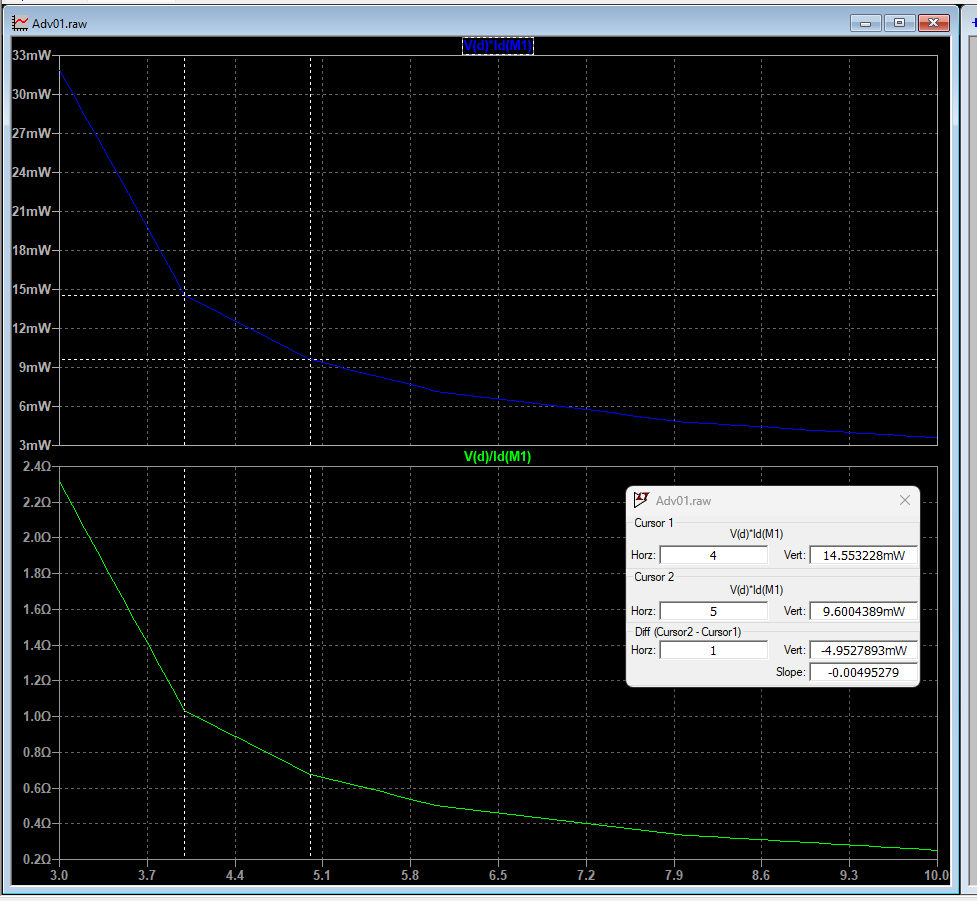
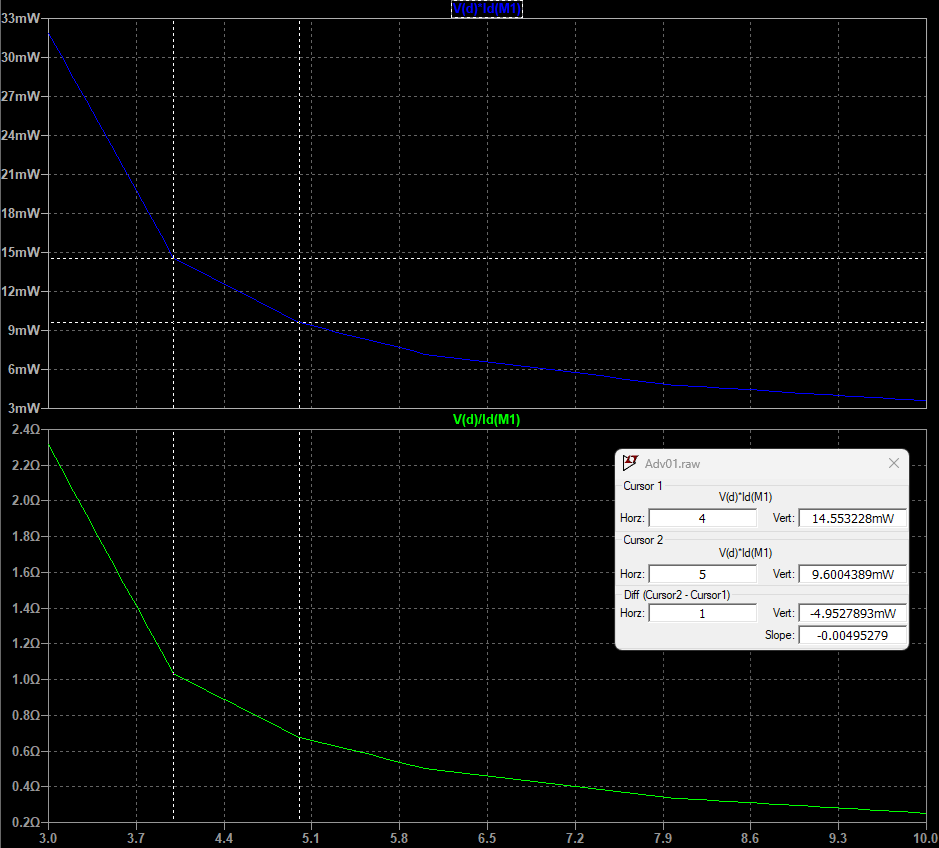
feat(lab5): add 2 advanced exercise

diff --git a/Report/labs/lab5/adv02.tex b/Report/labs/lab5/adv02.tex
@@ -32,8 +32,8 @@ $E_{\mathrm{off}}$ and the average MOSFET power for $R_G$ = 10, 100 and 1000\,$\
 .step param RG list 10 100 1000
 .ic I(L1)=0.5
 .tran 0 200u 0 2n
-.meas TRAN Eoff INTEG V(d)*Id(M1) FROM 50u TO 52u
-.meas TRAN Eon  INTEG V(d)*Id(M1) FROM 100u TO 102u
+.meas TRAN Eoff INTEG V(d)*Id(M1) FROM 50u TO 53u
+.meas TRAN Eon  INTEG V(d)*Id(M1) FROM 100u TO 103u
 .meas TRAN Pavg AVG   V(d)*Id(M1) FROM 100u TO 200u
 \end{spice}
 \simfig{adv02_sim}{Drain voltage, drain current and instantaneous MOSFET power during turn-off (Advanced Exercise 5.A2)}
